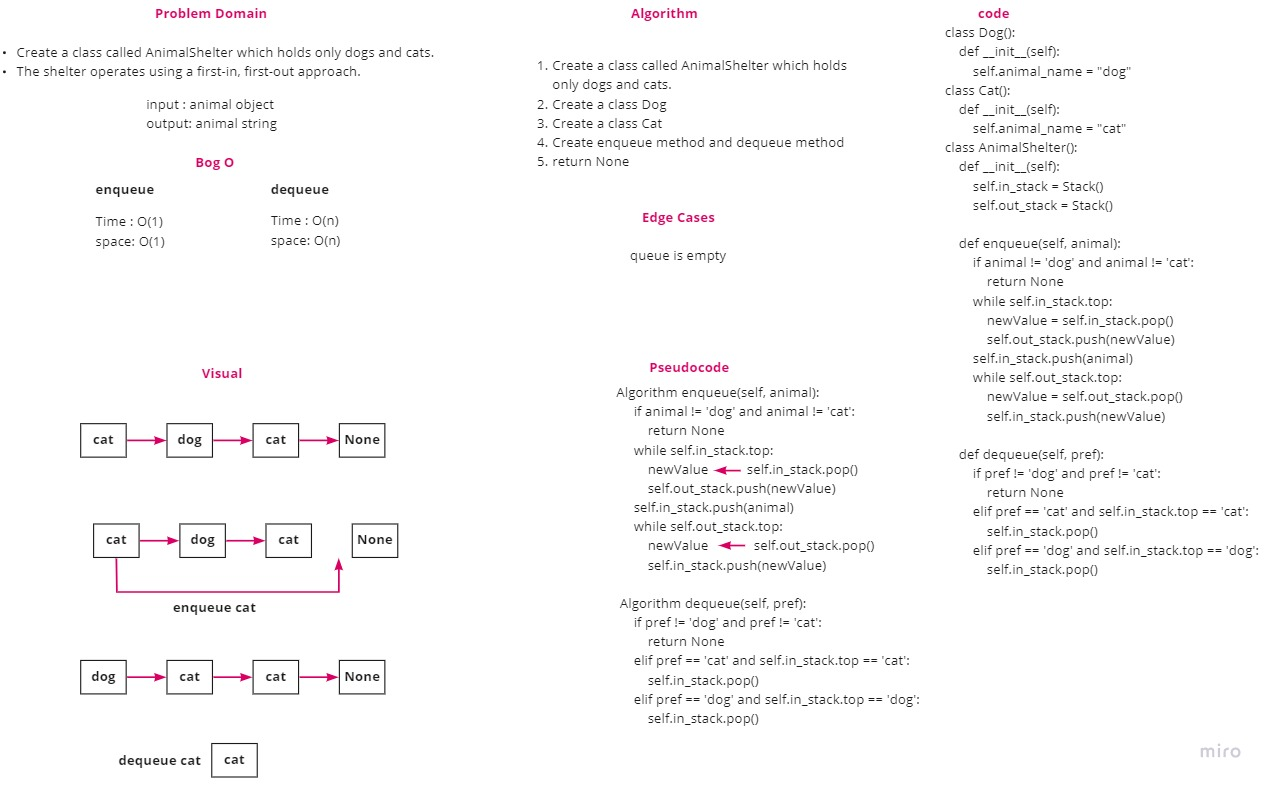
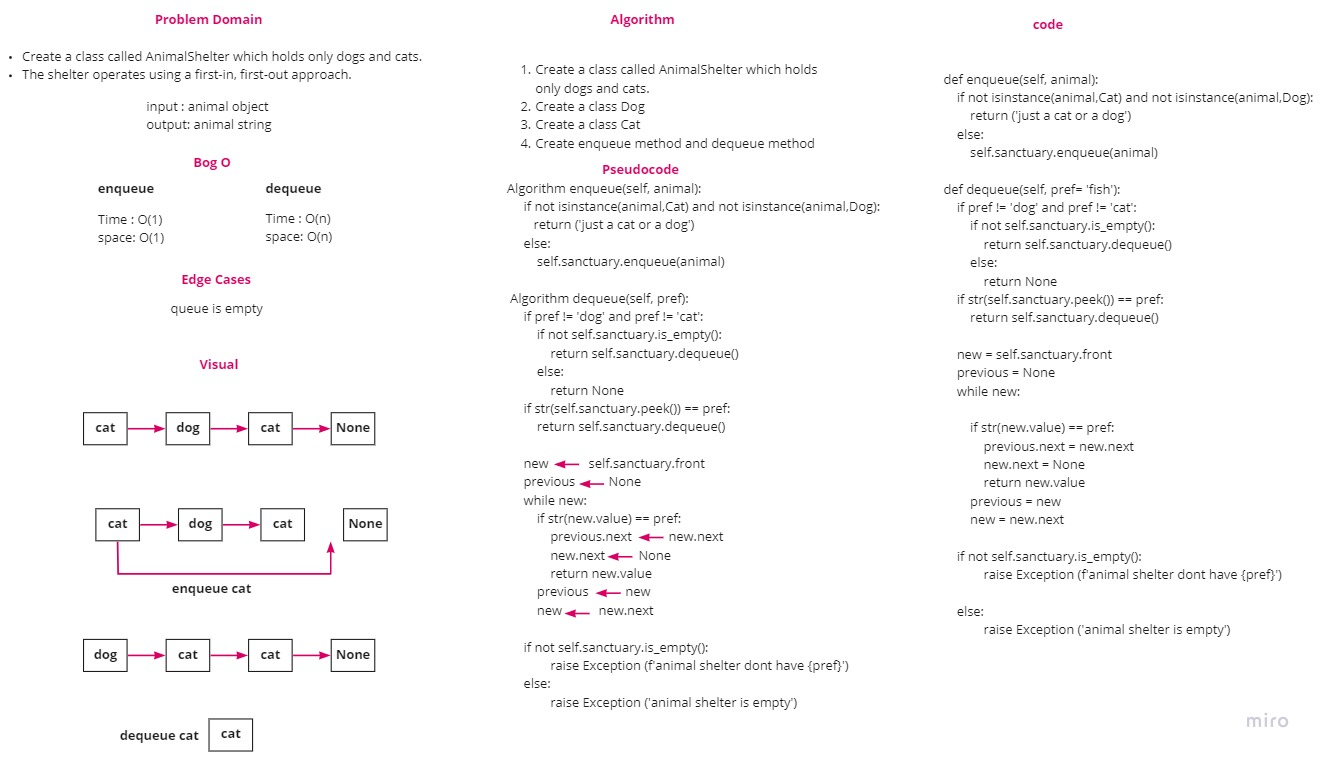
fix readme AnimalShelter

diff --git a/stack_and_queue/README.md b/stack_and_queue/README.md
@@ -181,74 +181,81 @@ class Dog():
     def __init__(self):
         self.animal_name = "dog"
 
+    def __str__(self):
+        return f'{self.animal_name}'    
+
 class Cat():
     def __init__(self):
         self.animal_name = "cat"
+
+    def __str__(self):
+        return f'{self.animal_name}'    
   
 class AnimalShelter():
     def __init__(self):
-        self.in_stack = Stack()
-        self.out_stack = Stack()
+        self.sanctuary = Queue()
+        self.dog = Dog()
+        self.cat = Cat()
+
+    def __str__(self):
+        return f'{self.sanctuary}'    
 
     def enqueue(self, animal):
-        if animal != 'dog' and animal != 'cat':
-            return None
-        while self.in_stack.top:
-            newValue = self.in_stack.pop()
-            self.out_stack.push(newValue)
-        self.in_stack.push(animal)
-        while self.out_stack.top:
-            newValue = self.out_stack.pop()
-            self.in_stack.push(newValue)
+        if not isinstance(animal,Cat) and not isinstance(animal,Dog):
+            return ('just a cat or a dog')
+        else:
+            self.sanctuary.enqueue(animal)
 
-    def dequeue(self, pref):
+    def dequeue(self, pref= 'fish'):
         if pref != 'dog' and pref != 'cat':
-            return None
-        elif pref == 'cat' and self.in_stack.top == 'cat':
-            self.in_stack.pop()
-        elif pref == 'dog' and self.in_stack.top == 'dog':
-            self.in_stack.pop()
+            if not self.sanctuary.is_empty():
+                return self.sanctuary.dequeue()
+            else:
+                return None
+        if str(self.sanctuary.peek()) == pref:
+            return self.sanctuary.dequeue()
+
+        new = self.sanctuary.front
+        previous = None
+        while new:
+            
+            if str(new.value) == pref:
+                previous.next = new.next
+                new.next = None   
+                return new.value
+            previous = new
+            new = new.next
+                
+        if not self.sanctuary.is_empty():
+                raise Exception (f'animal shelter dont have {pref}') 
+        
+        else:
+                raise Exception ('animal shelter is empty')   
 
 ``` 
 ***Test Animal Shelter***
 ``` 
-def test_animal_shelter():
-    animal_shelter = AnimalShelter()
-    assert animal_shelter
-def test_animal_shelter_enqueue_cat():
-    animal_shelter = AnimalShelter()
-    animal_shelter.enqueue('cat')
-    actual = animal_shelter.in_stack.peek()
-    expected = 'cat'
-    assert actual == expected
-def test_animal_shelter_enqueue_dog():
-    animal_shelter = AnimalShelter()
-    animal_shelter.enqueue('dog')
-    actual = animal_shelter.in_stack.peek()
-    expected = 'dog'
-    assert actual == expected
-def test_animal_shelter_enqueue_multiple():
-    animal_shelter = AnimalShelter()
-    animal_shelter.enqueue('dog')
-    animal_shelter.enqueue('cat')
-    actual = animal_shelter.in_stack.peek()
-    expected = 'dog'
-    assert actual == expected
-def test_animal_shelter_enqueue_return_none():
-    animal_shelter = AnimalShelter()
-    animal_shelter.enqueue('dog')
-    actual = animal_shelter.in_stack.peek()
-    expected = 'cat'
-    assert actual != expected
+def test_animal():
+    animal = AnimalShelter()
+    [animal.enqueue(j) for j in [Cat(),Dog(),Dog()]]
+    assert str(animal.sanctuary.peek()) == 'cat'
 
-def test_animal_shelter_dequeue():
-    animal_shelter = AnimalShelter()
-    animal_shelter.enqueue('dog')
-    animal_shelter.enqueue('cat')
-    animal_shelter.enqueue('cat')
-    actual = animal_shelter.dequeue('cat')
-    expected = 'cat'
-    assert actual == expected
+def test_animal_dequeue():
+    animal = AnimalShelter()
+    [animal.enqueue(j) for j in [Cat(),Dog(),Dog()]]
+    assert str(animal.dequeue('dog')) == 'dog'
+    assert str(animal.sanctuary.peek()) == 'cat'
+
+def test_animle_dequeue():
+    animal = AnimalShelter()
+    [animal.enqueue(j) for j in [Cat(),Dog(),Dog()]]
+    assert str(animal.dequeue('cat')) == 'cat'
+    assert str(animal.dequeue('fish')) == 'dog'
+
+def test_animal_empty():
+    with pytest.raises(Exception):
+        animal = AnimalShelter()
+        assert animal.dequeue()
    
 ```
 > Solution for Code Challenge: Class 13<br>
